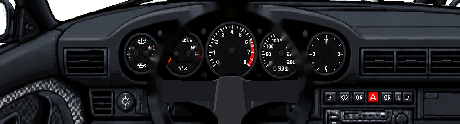
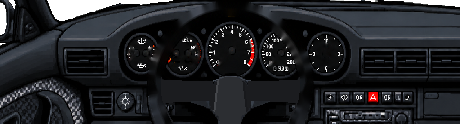
959: sem a coluna espelhada à direita; borda do painel sem pontinhos brancos
Limpeza automática na importação: pontos claros encostados no vidro (sobras do
fundo branco da arte) e pontinhos soltos saem; a ponta do limpador que restava
na borda do painel também.

Claude-Session: https://claude.ai/code/session_01MLD9VR7gkmY4w6a9beZcp6

diff --git a/tools/ref/import_cockpit.py b/tools/ref/import_cockpit.py
@@ -32,11 +32,11 @@ CARS = {
         'gauges': {'tach': (660, 275, 67), 'speed': (790, 285, 55), 'aux1': (405, 285, 46),
                    'aux2': (530, 285, 50), 'clock': (920, 285, 52)},
         'top_art': [], 'sky_left': True,
-        'mirror_pillar': 70,   # colunas 0..70 do painel: a coluna da esquerda, espelhada para a direita
+        'despeckle': True,
         'hub_fill': ((22, 22, 25), 340),
         'wheel_rows': 172, 'paint': 'column', 'rim_margin': 7, 'hole_sky_above': 150,
         # borda de cima do painel entre as colunas (acima: limpadores, que viram vidro)
-        'dash_curve': [(199, -1000), (205, 160), (300, 158), (400, 155), (500, 151), (600, 147),
+        'dash_curve': [(199, -1000), (205, 162), (300, 162), (350, 163), (420, 164), (480, 159), (520, 151), (600, 147),
                        (700, 148), (800, 149), (900, 151), (1000, 154), (1100, 156), (1200, 157),
                        (1300, 158), (1400, 160), (1485, 162), (1491, -1000)],
     },
@@ -245,6 +245,25 @@ def paint_pillars(top, dash, pillars):
                 put(x, y, c)
 
 
+def despeckle(img):
+    """Limpa a borda com o vidro: pontos claros encostados no transparente (sobras do fundo
+    branco da arte) e pontinhos soltos no vidro."""
+    a = img[..., 3] > 0
+    light = img[..., :3].min(axis=2) > 115
+    for _ in range(3):
+        clear = ~a
+        near = cv2.dilate(clear.astype(np.uint8), np.ones((3, 3), np.uint8)) > 0
+        kill = a & light & near
+        if not kill.any():
+            break
+        a &= ~kill
+    n, lab, st, _ = cv2.connectedComponentsWithStats(a.astype(np.uint8), 8)
+    for i in range(1, n):
+        if st[i, cv2.CC_STAT_AREA] <= 6:
+            a[lab == i] = False
+    img[..., 3] = np.where(a, 255, 0)
+
+
 def mirror_pillar(top, dash, center, cols):
     """Coluna do lado do passageiro: espelho da coluna da esquerda em torno do centro do
     volante, só onde o outro lado é vidro (ela termina ao encostar no painel)."""
@@ -449,6 +468,11 @@ def main():
         t_rgb = sample(cv2.cvtColor(timg, cv2.COLOR_BGR2RGB), nw, EXT)
         t_a = sample(talpha.astype(np.uint8) * 255, nw, EXT)
         Image.fromarray(np.dstack([t_rgb, t_a]), 'RGBA').save(f'{outdir}/{car}-top.png')
+    if cfg.get('despeckle'):
+        for fn in (f'{outdir}/{car}-top.png', f'{outdir}/{car}-dash.png'):
+            im_ = np.array(Image.open(fn).convert('RGBA'))
+            despeckle(im_)
+            Image.fromarray(im_, 'RGBA').save(fn)
     if 'mirror_pillar' in cfg:
         tp, dp = f'{outdir}/{car}-top.png', f'{outdir}/{car}-dash.png'
         top_i, dash_i = np.array(Image.open(tp).convert('RGBA')), np.array(Image.open(dp).convert('RGBA'))
